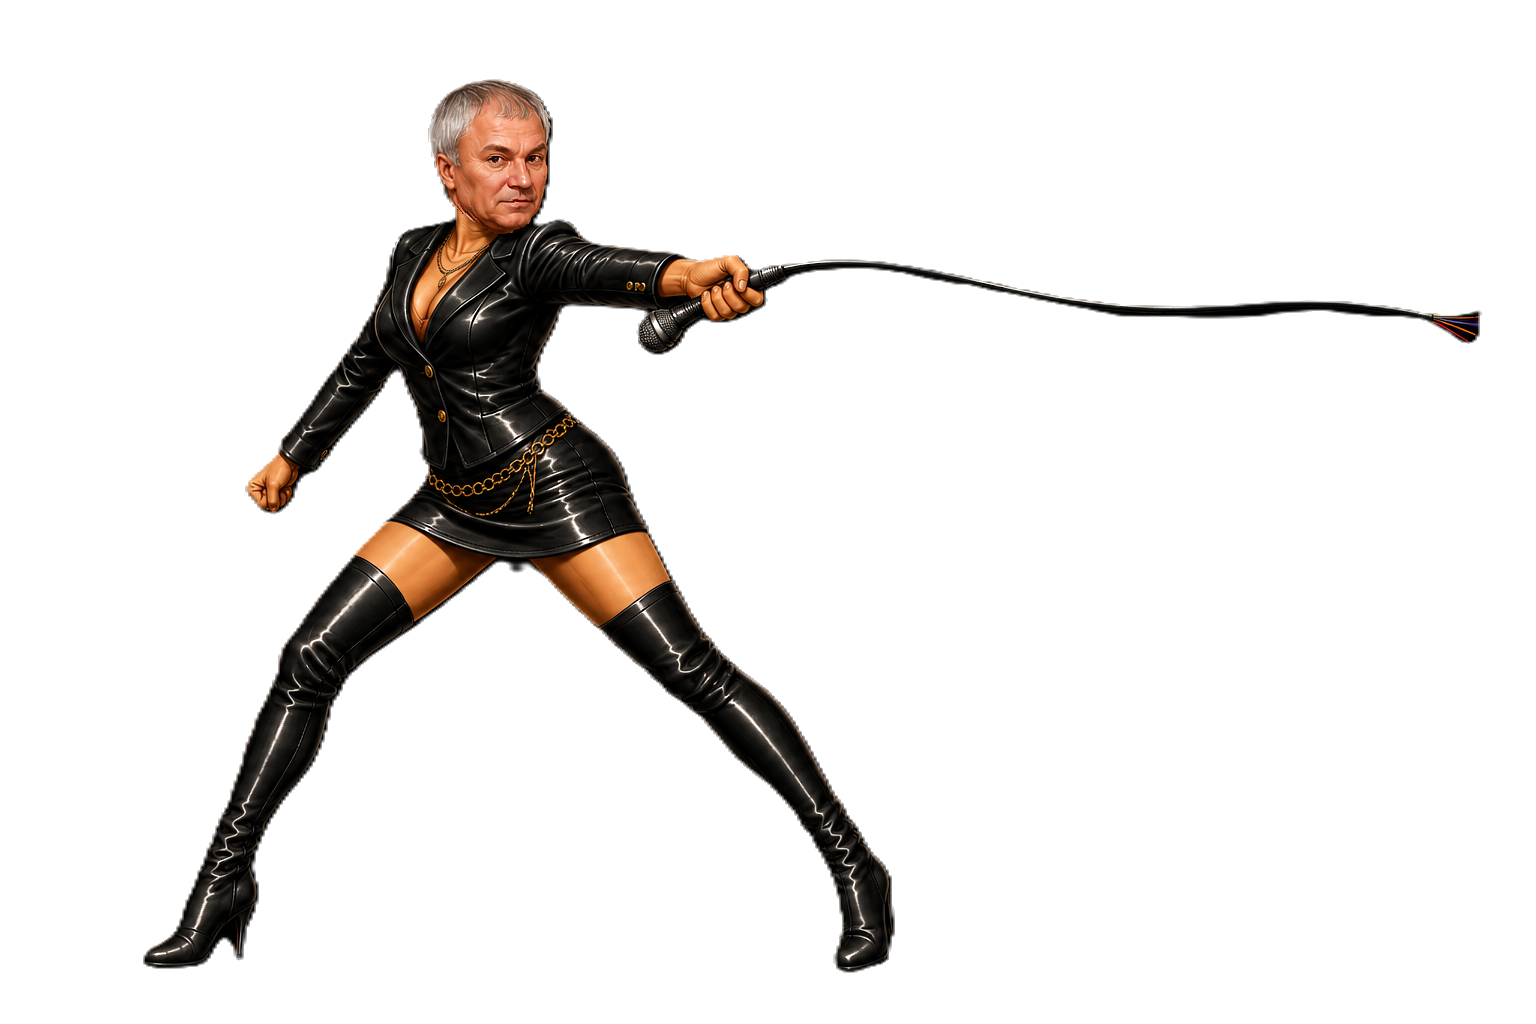
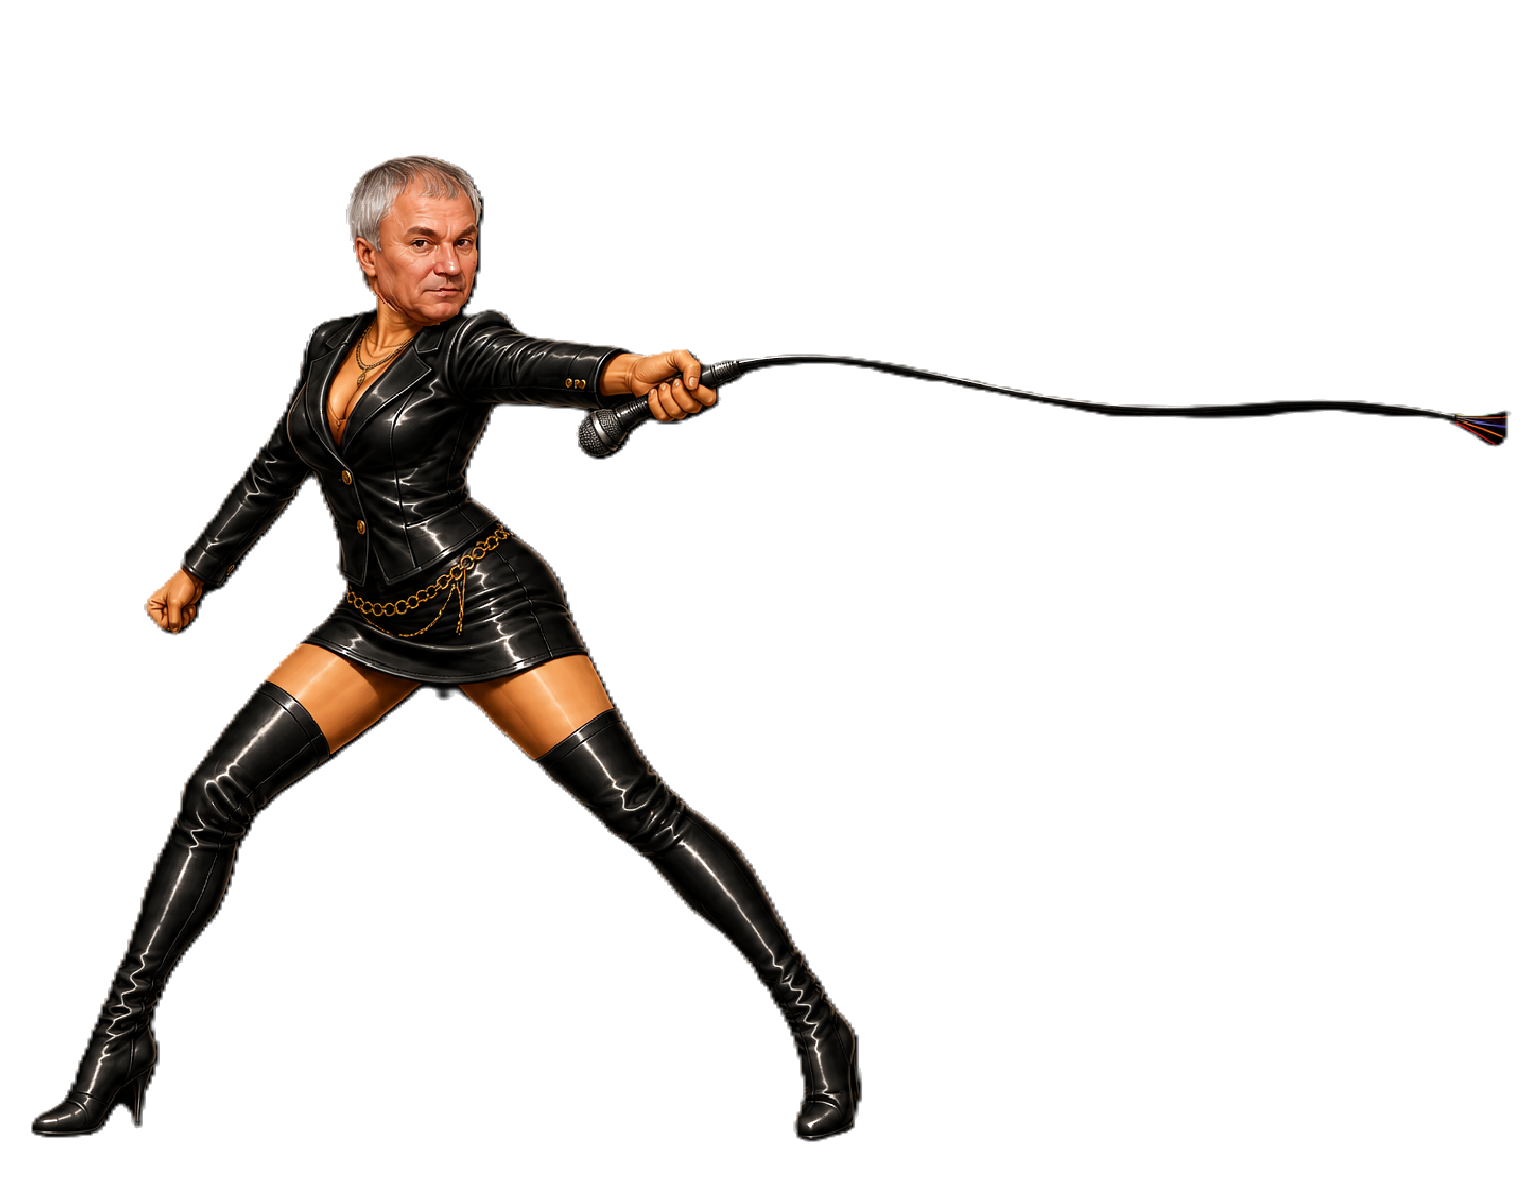
Use aligned NEgay final whip sprite

Changed region(s): [[0.0, 0.0625, 0.6562, 0.9688], [0.5938, 0.2812, 1.0, 0.375]]

diff --git a/src/game.bundle.js b/src/game.bundle.js
@@ -6,7 +6,7 @@
 
 /* ===== src/config.js ===== */
 const GAME_CONFIG = {
-  "buildVersion": "0.4.168",
+  "buildVersion": "0.4.169",
   "width": 1280,
   "height": 720,
   "targetFPS": 60,
@@ -374,7 +374,7 @@ const GAME_CONFIG = {
       "damage": 16,
       "appearSoundPath": "assets/enemies/NEgay/appear.mp3?v=negay-appear-2",
       "scale": 0.12,
-      "finalAttackScale": 1.21125,
+      "finalAttackScale": 1,
       "attackDamageSource": "ranged",
       "minDistanceX": 105,
       "preferredDistanceX": 175,
@@ -1439,7 +1439,7 @@ window.Assets = {
   negay:{
     idle:'assets/enemies/NEgay/idle.png?v=negay-refresh-2',
     walk:['assets/enemies/NEgay/walk01.png?v=negay-refresh-2','assets/enemies/NEgay/walk02.png?v=negay-refresh-2','assets/enemies/NEgay/walk03.png?v=negay-refresh-2'],
-    attack:['assets/enemies/NEgay/Whiplash.png?v=negay-refresh-2','assets/enemies/NEgay/WhiplashFinal.png?v=negay-refresh-2'],
+    attack:['assets/enemies/NEgay/Whiplash.png?v=negay-refresh-2','assets/enemies/NEgay/WhiplashFinal.png?v=negay-final-1'],
     dead:'assets/enemies/NEgay/knockdown.png?v=negay-refresh-2'
   },
   pickups:{

diff --git a/src/assets.js b/src/assets.js
@@ -94,7 +94,7 @@ window.Assets = {
   negay:{
     idle:'assets/enemies/NEgay/idle.png?v=negay-refresh-2',
     walk:['assets/enemies/NEgay/walk01.png?v=negay-refresh-2','assets/enemies/NEgay/walk02.png?v=negay-refresh-2','assets/enemies/NEgay/walk03.png?v=negay-refresh-2'],
-    attack:['assets/enemies/NEgay/Whiplash.png?v=negay-refresh-2','assets/enemies/NEgay/WhiplashFinal.png?v=negay-refresh-2'],
+    attack:['assets/enemies/NEgay/Whiplash.png?v=negay-refresh-2','assets/enemies/NEgay/WhiplashFinal.png?v=negay-final-1'],
     dead:'assets/enemies/NEgay/knockdown.png?v=negay-refresh-2'
   },
   pickups:{

diff --git a/src/config.js b/src/config.js
@@ -1,5 +1,5 @@
 const GAME_CONFIG = {
-  "buildVersion": "0.4.168",
+  "buildVersion": "0.4.169",
   "width": 1280,
   "height": 720,
   "targetFPS": 60,
@@ -367,7 +367,7 @@ const GAME_CONFIG = {
       "damage": 16,
       "appearSoundPath": "assets/enemies/NEgay/appear.mp3?v=negay-appear-2",
       "scale": 0.12,
-      "finalAttackScale": 1.21125,
+      "finalAttackScale": 1,
       "attackDamageSource": "ranged",
       "minDistanceX": 105,
       "preferredDistanceX": 175,
